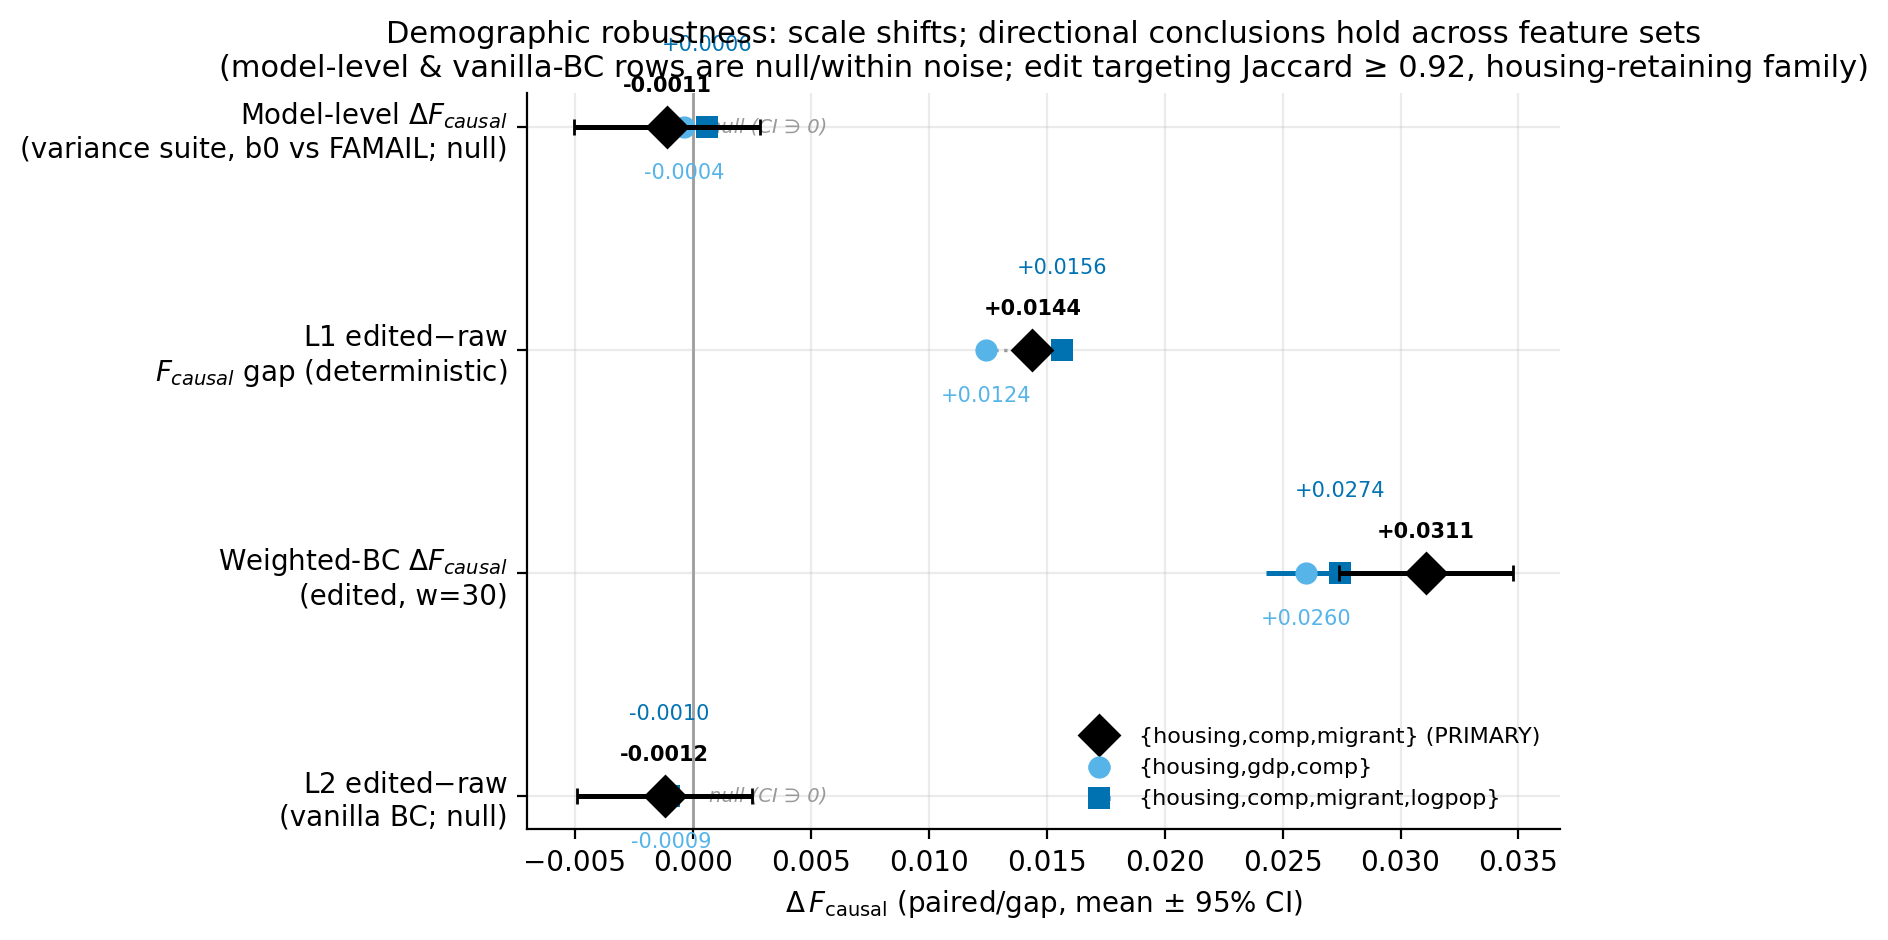
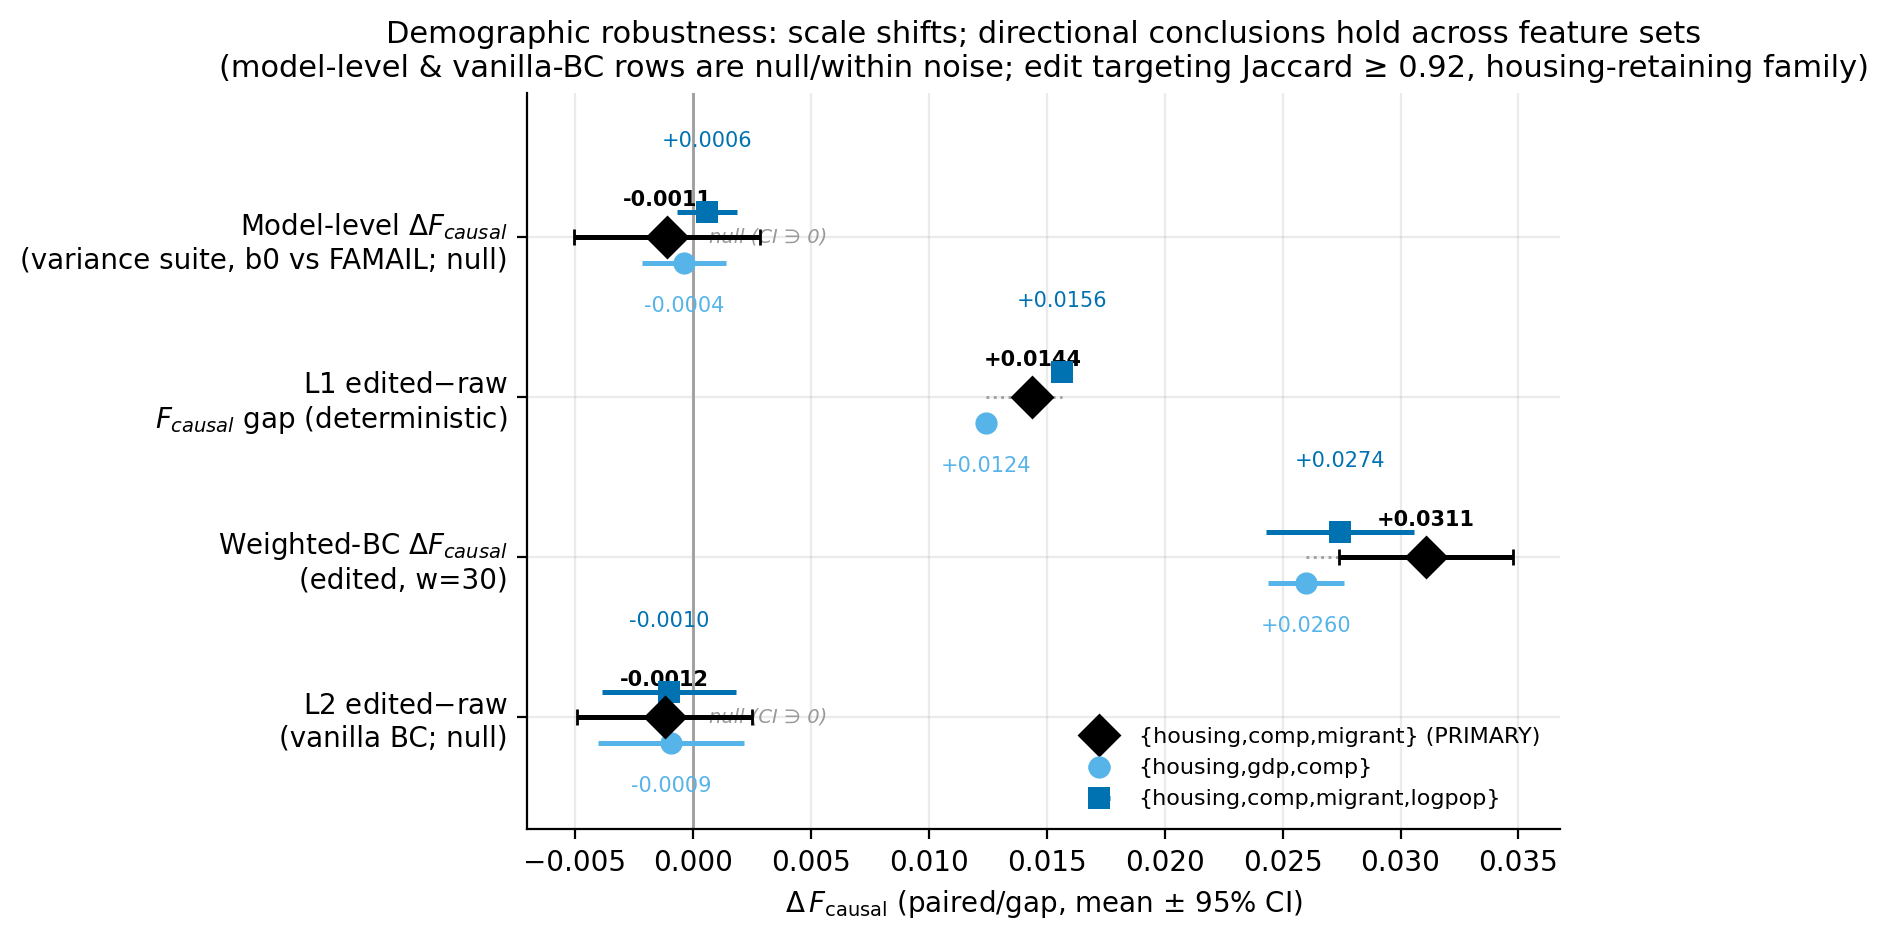
fix(paper): adversarial-review-C fixes to PRIMARY deliverable
Workflow review of the PRIMARY {housing,comp,migrant} deliverable + branch code
(REVIEW_C_primary.md): 0 critical, 1 substantive, ~8 minor; branch code verified
sound; PRIMARY numbers verified correct seed-means.

- SUBSTANTIVE: PRIMARY README Pareto bullet inverted the F_spatial direction —
  claimed 'edit improves both' but the causal-emphasis editor (alpha_spatial=0.2)
  slightly LOWERS F_spatial (0.1034->0.1025) while filtering raises it; edit
  dominance holds on F_causal only. Rewritten honestly (matches REVIEW_A's own
  'don't imply the editor improves both axes' caution).
- comparison_3v4 stale 'will be added when re-run completes' -> points to the
  now-existing comparison_across_sets.md.
- GAN disqualification wording cites the L2 collapse, not only L1v2 Fid-B 0.173.
- 4feat README: added the associational/10-district caveat.
- PRIMARY Fid-A raw 0.849 -> 0.848 (mean rounding, not seed-0).
- 3-way robustness fig: per-set y-jitter (separates overlapping null-row
  markers) + top headroom (title clearance).
- feature_selection Spearman >=0.84 scoped to the three reported sets.
- cleanup_delta_editor.csv: added 3-feature provenance comment.

50 analysis tests pass.

diff --git a/famail_temporal/analysis/paper_figures.py b/famail_temporal/analysis/paper_figures.py
@@ -595,26 +595,31 @@ def fig_feature_robustness(sets, out_path: Path) -> Path:
 
     # Pure-vertical stagger so labels never collide horizontally with an
     # adjacent set's marker (the sets share a row but sit at different x).
-    place = {"above": dict(xytext=(0, 11), ha="center", va="bottom"),
-             "below": dict(xytext=(0, -13), ha="center", va="top"),
-             "above2": dict(xytext=(0, 26), ha="center", va="bottom")}
+    place = {"above": dict(xytext=(0, 10), ha="center", va="bottom"),
+             "below": dict(xytext=(0, -12), ha="center", va="top"),
+             "above2": dict(xytext=(0, 22), ha="center", va="bottom")}
+    # Small per-set vertical jitter so the markers don't perfectly overlap on
+    # the near-zero null rows (where all three sets sit at ~0); the y-tick stays
+    # at the row centre. Order matches the `sets` order (PRIMARY centred).
+    jit = [0.0, -0.16, 0.16]
 
     for yi, k in zip(y, keys):
         vals = [(fk, n[k]) for fk, n in nums]
         xs = [e["val"] for _, e in vals]
-        # connect the spread of points on this row
-        ax.plot([min(xs), max(xs)], [yi, yi], color=_WONG["grey"], lw=1.2, ls=":", zorder=1)
+        # reference line through the row centre (the spread of values)
+        ax.plot([min(xs), max(xs)], [yi, yi], color=_WONG["grey"], lw=1.0, ls=":", zorder=1)
         any_null = False
-        for fk, e in vals:
+        for i, (fk, e) in enumerate(vals):
             label_txt, color, marker, placement = _ROBUSTNESS_STYLE[fk]
             primary = (fk == nums[0][0])
-            ax.errorbar([e["val"]], [yi], xerr=[_xerr(e)], fmt=marker, color=color,
+            yj = yi + (jit[i] if i < len(jit) else 0.0)
+            ax.errorbar([e["val"]], [yj], xerr=[_xerr(e)], fmt=marker, color=color,
                         markersize=10 if primary else 8,
                         markeredgecolor="black" if primary else color,
                         markeredgewidth=1.0 if primary else 0.0,
                         zorder=4 if primary else 3,
                         label=label_txt if k == keys[0] else None)
-            ax.annotate(f"{e['val']:+.4f}", (e["val"], yi), textcoords="offset points",
+            ax.annotate(f"{e['val']:+.4f}", (e["val"], yj), textcoords="offset points",
                         fontsize=7.5, color=color, fontweight="bold" if primary else "normal",
                         **place[placement])
             any_null = any_null or e["null"]
@@ -623,6 +628,8 @@ def fig_feature_robustness(sets, out_path: Path) -> Path:
                         xytext=(6, 0), ha="left", va="center", fontsize=7,
                         color=_WONG["grey"], style="italic")
 
+    # Headroom so the top row's upper label clears the two-line title.
+    ax.set_ylim(-0.7, len(keys) - 1 + 0.9)
     ax.set_yticks(y)
     ax.set_yticklabels([nice[k] for k in keys])
     ax.set_xlabel(r"$\Delta\,F_{\mathrm{causal}}$ (paired/gap, mean $\pm$ 95% CI)")

diff --git a/PAPER/reviews/REVIEW_C_primary.md b/PAPER/reviews/REVIEW_C_primary.md
@@ -1,0 +1,30 @@
+# Adversarial review C — PRIMARY {housing,comp,migrant} deliverable + branch code
+
+Run 2026-06-30 (workflow `wf_0079dbf8-204`, 19 agents, 5 review dimensions, adversarial verify). The structured-output
+emission hit a harness validation glitch on the `fix` field, so findings were salvaged from the agent transcripts.
+**Overall: 0 critical, 1 substantive, ~8 minor.** Branch code verified sound ("correct with only minor comment nits");
+PRIMARY numbers verified correct seed MEANS (not seed-0); the two-pillar story holds and is cleanest under PRIMARY.
+
+## Confirmed findings + disposition
+
+| # | sev | finding | disposition |
+|---|---|---|---|
+| 1 | **substantive** | PRIMARY README Pareto bullet: F_spatial direction inverted — claims "edit improves both" but edit *lowers* F_spatial (0.1034→0.1025) and filter *raises* it (→0.1046). Edit-dominance holds on **F_causal** only (causal-emphasis editor, α_spatial=0.2). | **FIXED** — bullet rewritten: edit dominates on the F_causal objective; F_spatial movements are small and not this run's target. |
+| 2 | minor | `comparison_3v4.md` scope note still says the 3-way "will be added when the re-run completes" — but `comparison_across_sets.md` now exists. | **FIXED** — points to the existing 3-way. |
+| 3 | minor | PRIMARY README GAN disqualification leans on the L1v2 Fid-B 0.173 (vs edited 0.1485, a modest gap) rather than the stronger L2 distributional-collapse evidence. | **FIXED** — wording cites the collapse, not only 0.173. |
+| 4 | minor | density (4feat) README lacks the associational/10-district caveat the PRIMARY + 3feat READMEs carry (top-level has it; 4feat only defers). | **FIXED** — caveat line added. |
+| 5 | minor | PRIMARY README Fid-A "raw 0.849" rounds the 0.8485 mean up; reads like a seed-0 value. | **FIXED** — 0.848. |
+| 6 | minor | 3-way robustness dumbbell: markers overlap on the two null rows; top-row `above2` label collides with the 2-line title. | **FIXED** — per-set y-jitter + top headroom. |
+| 7 | minor | feature_selection "per-cell Spearman ≥ 0.84 (housing-retaining family)" is over-broad — true for the 3 reported sets, but some housing-retaining sets fall below. | **FIXED** — scoped to "the three reported sets". |
+| 8 | minor | `shared_cleanup/tables/cleanup_delta_editor.csv` still lacks the 3-feature provenance label its prior fix mandated (covered by the README + .md tables; CSV not cited standalone). | **FIXED** — provenance comment row added. |
+| 9 | minor | sink decomposition "share_of_global_shift" labeled "share" but is a multiple (416%), not a ≤100% share (already disclosed as the "no 416% paradox" in prose). | noted; the prose already disambiguates — left as-is with the existing disclosure. |
+
+## Verified clean (no action)
+- Branch code (`paper_figures.py` 3-way generalization, `_ci_half_from_std`, `_robustness_numbers` null/deterministic
+  flags, `--feat`/`--compare-feat`; `experiment_delta.py` caption/verdict; `dataset_summary.py` denominator; GAN test
+  stub; `.gitignore` negation) — no bugs; full suite 700-pass.
+- All PRIMARY headline numbers (editor, L1 means, L2, weighted-BC means + CIs, most_fair/random, variance) recomputed
+  from source and match; MEAN-not-seed-0 discipline holds; the prior 3feat-bc-0.8045 seed-0 bug is fixed to 0.8064.
+- 29 prior findings' fixes confirmed carried into the restructured tree (edit-dominant, most-fair metric-dependent,
+  density-drives-scale, co-dominance, housing-retaining/FRAGILE, n=6 floor, deterministic gap, associational caveat,
+  removal-rate denominator, redistribution residual, data-driven sink caption).

diff --git a/PAPER/by_feature_set/housing-comp-migrant/README.md b/PAPER/by_feature_set/housing-comp-migrant/README.md
@@ -13,9 +13,10 @@ headline numbers come from this set; the two sets in `../housing-gdp-comp/` and
 - **Editor (causal-emphasis α = 0.2/0.7/0.1, k = 10000):** F_causal 0.7988 → **0.8132** (Δ **+0.0144**);
   F_spatial 0.1034 → 0.1025.
 - **Pillar 1 (L1 — data quality):** edited is the **fairest faithful** source — F_causal: edited **0.8132** > raw
-  0.7988 ≈ **bc 0.7980** (bc statistically tied with raw); gan 0.8089 is distributionally disqualified (Fidelity-B
-  0.173 — it collapses, see the fidelity panel). Fidelity-A: all four within ~0.006 (raw 0.849, edited 0.843, bc
-  0.848, gan 0.848), so editing is identity-faithful.
+  0.7988 ≈ **bc 0.7980** (bc statistically tied with raw); gan 0.8089 is **distributionally disqualified** — GAN-gen
+  collapses (it free-runs/degenerates; its Fidelity-B is the worst of the sources, and the L2 evaluation shows the
+  distributional collapse directly — see the Fidelity-B component panel). Fidelity-A: all four within ~0.006 (raw
+  0.848, edited 0.843, bc 0.848, gan 0.848), so editing is identity-faithful.
   - *Deterministic-gap caveat:* raw and edited F_causal have **std = 0** across BC seeds — they are static data-level
     rescores, so the edited−raw gap is a **point comparison with no sampling CI**. It is also the editor's own
     optimization target (α_causal = 0.7), so the gap is expected *by construction*; its value is that it is achieved
@@ -32,10 +33,13 @@ headline numbers come from this set; the two sets in `../housing-gdp-comp/` and
   p = 1.0), not even the all-same-sign floor. So editing dominates selection by **~70×** and the random placebo is
   null too. This is the sharpest version of the result: the fairness gain is **edit-driven**, not reproducible by
   *selecting* the already-fair trajectories or by *random* oversampling, and (unlike the sensitivity sets) there is
-  no metric-dependent SELECT effect to caveat. **Filtering** trajectories does not help either: in the Pareto
-  (`figures/pareto_*_hcm.png`), filter@K *lowers* F_causal (0.7988 → 0.7935 at K=2455) and *raises* F_spatial, while
-  **edit** is the only point that improves both (F_causal 0.8132, F_spatial 0.1025). So removing or selecting data is
-  not a substitute for editing it.
+  no metric-dependent SELECT effect to caveat. **Filtering** trajectories does not help the F_causal objective either:
+  in the Pareto (`figures/pareto_*_hcm.png`), filter@K *lowers* F_causal (0.7988 → 0.7935 at K = 2455), whereas
+  **edit** raises it strongly (→ 0.8132). (This is a *causal-emphasis* editor, α_spatial = 0.2, so F_spatial is a
+  minor secondary metric here, not the objective: the F_spatial movements are all small — raw 0.1034, edit 0.1025,
+  filter 0.1046 — i.e. the editor trades a sliver of spatial fairness for the large causal gain, while filtering nudges
+  F_spatial up but *lowers* F_causal.) So on the F_causal objective, removing or selecting data is not a substitute
+  for editing it.
 - **Model-level (variance suite, b0 vs FAMAIL):** ΔF_causal **−0.0011 ± 0.0032** (n = 5; within noise; null).
 
 ## Statistical conventions (see top-level README for full detail)

diff --git a/PAPER/feature_selection/README.md b/PAPER/feature_selection/README.md
@@ -48,8 +48,10 @@ It is chosen for **construct validity as a *demographic* fairness lens**, on the
 - **Robustness is within the *housing-retaining* family.** The full feature-sensitivity sweep is formally
   **FRAGILE** (F_causal spread 0.178; min top-cell Jaccard 0.56) — driven entirely by *dropping housing*, which
   collapses editor targeting (drop_housing Jaccard 0.56, F_causal jumps to 0.90). **Housing is a load-bearing axis we
-  retain by design.** All three reported sets retain housing; within that family targeting is stable (Jaccard ≥ 0.92,
-  per-cell Spearman ≥ 0.84). Claims of robustness are scoped to this family, not to "any feature choice."
+  retain by design.** All three reported sets retain housing; for them targeting is stable (top-cell Jaccard ≥ 0.92,
+  per-cell Spearman ≥ 0.84 for the three reported sets — some *other* housing-retaining sets fall below on Spearman,
+  so the Spearman bound is stated for the reported sets, not the whole family; the Jaccard ≥ 0.92 holds family-wide).
+  Claims of robustness are scoped to this family, not to "any feature choice."
 - **Ecological resolution = 10 districts.** The demographics resolve to only **10 distinct district-level profiles**
   broadcast onto cells, so VIF / correlation / F_causal projection have ~10 effective DOF, not the ~34.5k active
   units. Cell-level attribution via district covariates carries a standard **ecological-fallacy** caveat; the

diff --git a/PAPER/feature_selection/tables/comparison_3v4.md b/PAPER/feature_selection/tables/comparison_3v4.md
@@ -3,8 +3,8 @@
 > **Scope note (2026-06-29).** This table compares the two **sensitivity** sets (the original 3-feature SES/income
 > set and the density-augmented 4-feature set). The paper's **PRIMARY** metric is now a third set,
 > **{housing, comp, migrant}** (see `../README.md` and `../../by_feature_set/housing-comp-migrant/`). The corrected,
-> non-overclaiming framing lives in `../README.md`; this file is retained for the 3↔4 side-by-side. A full **3-way**
-> comparison including the PRIMARY set will be added when its re-run completes. Some original wording below is
+> non-overclaiming framing lives in `../README.md`; this file is retained for the 3↔4 side-by-side. The full **3-way**
+> comparison including the PRIMARY set is in **`comparison_across_sets.md`** (the canonical cross-set table). Some original wording below is
 > tightened inline per the adversarial review (density attribution, most-fair, seed-mean transcription, null rows).
 
 **Question (PI):** is the F_causal demographic-variable choice defensible, and does the argument survive a

diff --git a/PAPER/by_feature_set/housing-comp-migrant-logpopdensity/README.md b/PAPER/by_feature_set/housing-comp-migrant-logpopdensity/README.md
@@ -49,6 +49,10 @@ set, and `../../feature_selection/` for why).
 - **Random placebo is null *on F_causal* specifically.** On Fidelity-B the random arm *does* show a small significant
   shift (random_w30 ≈ +0.0028, p = 0.03125) — a generic oversampling/distribution-shift effect. The edit-specificity
   claim rests on F_causal, where the random arm is genuinely null (+0.0013, p = 0.31).
+- **Associational, district-resolution.** F_causal is the partial R² of a cross-sectional OLS on **10 district-level**
+  demographic profiles — associational, not causal; ecological-fallacy caveat applies (`../../feature_selection/README.md`).
+  For *this* set the caveat is sharper: the F_causal scale change is ~90% LogPopDensity (demand geography), so its
+  lower absolute scale should not be read as "more demographic inequity" (see the README header + `comparison_3v4.md`).
 
 ## Contents → source provenance
 
